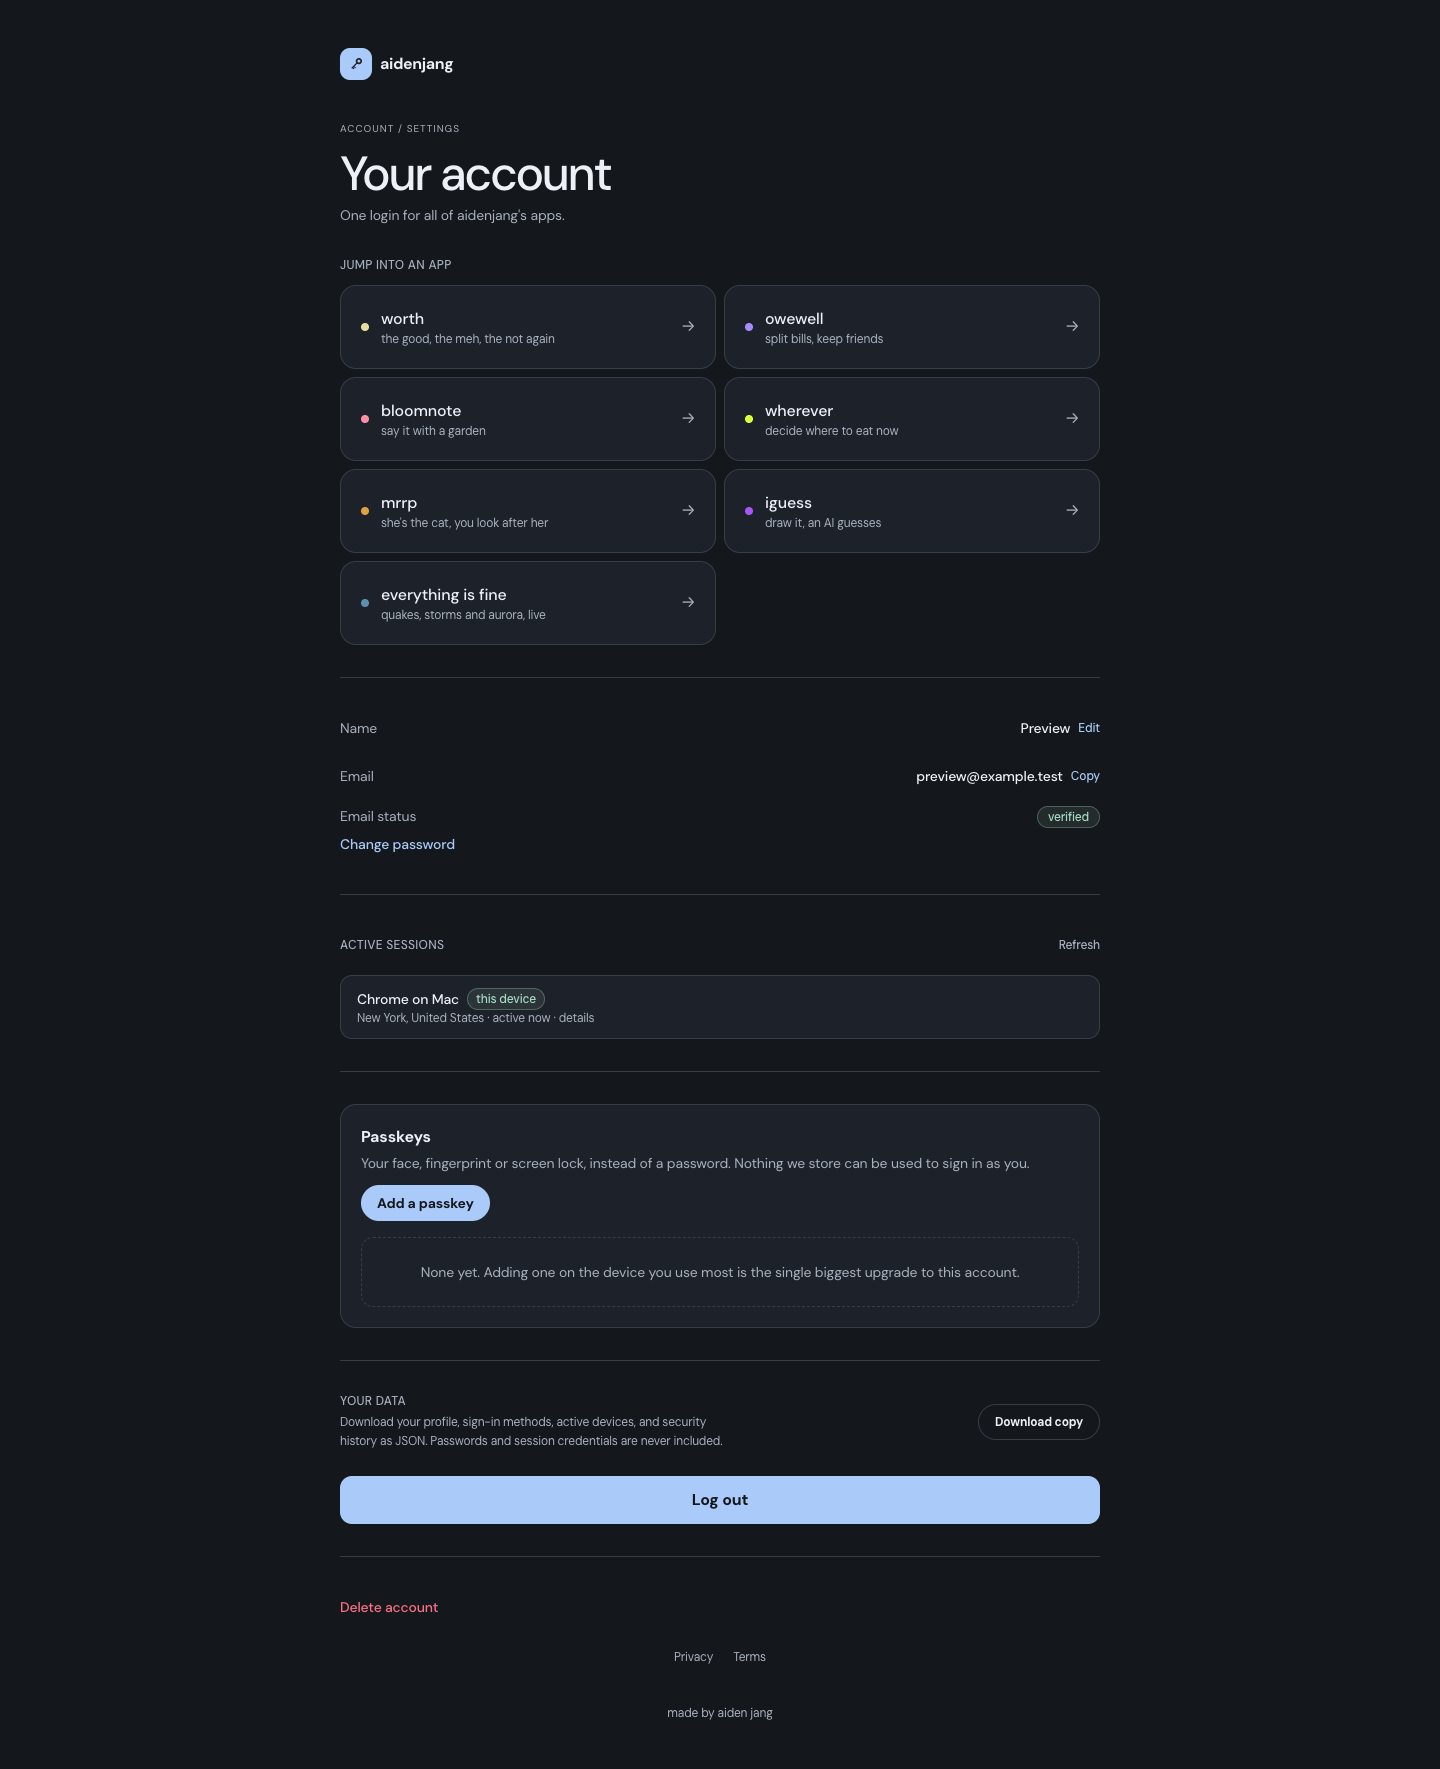
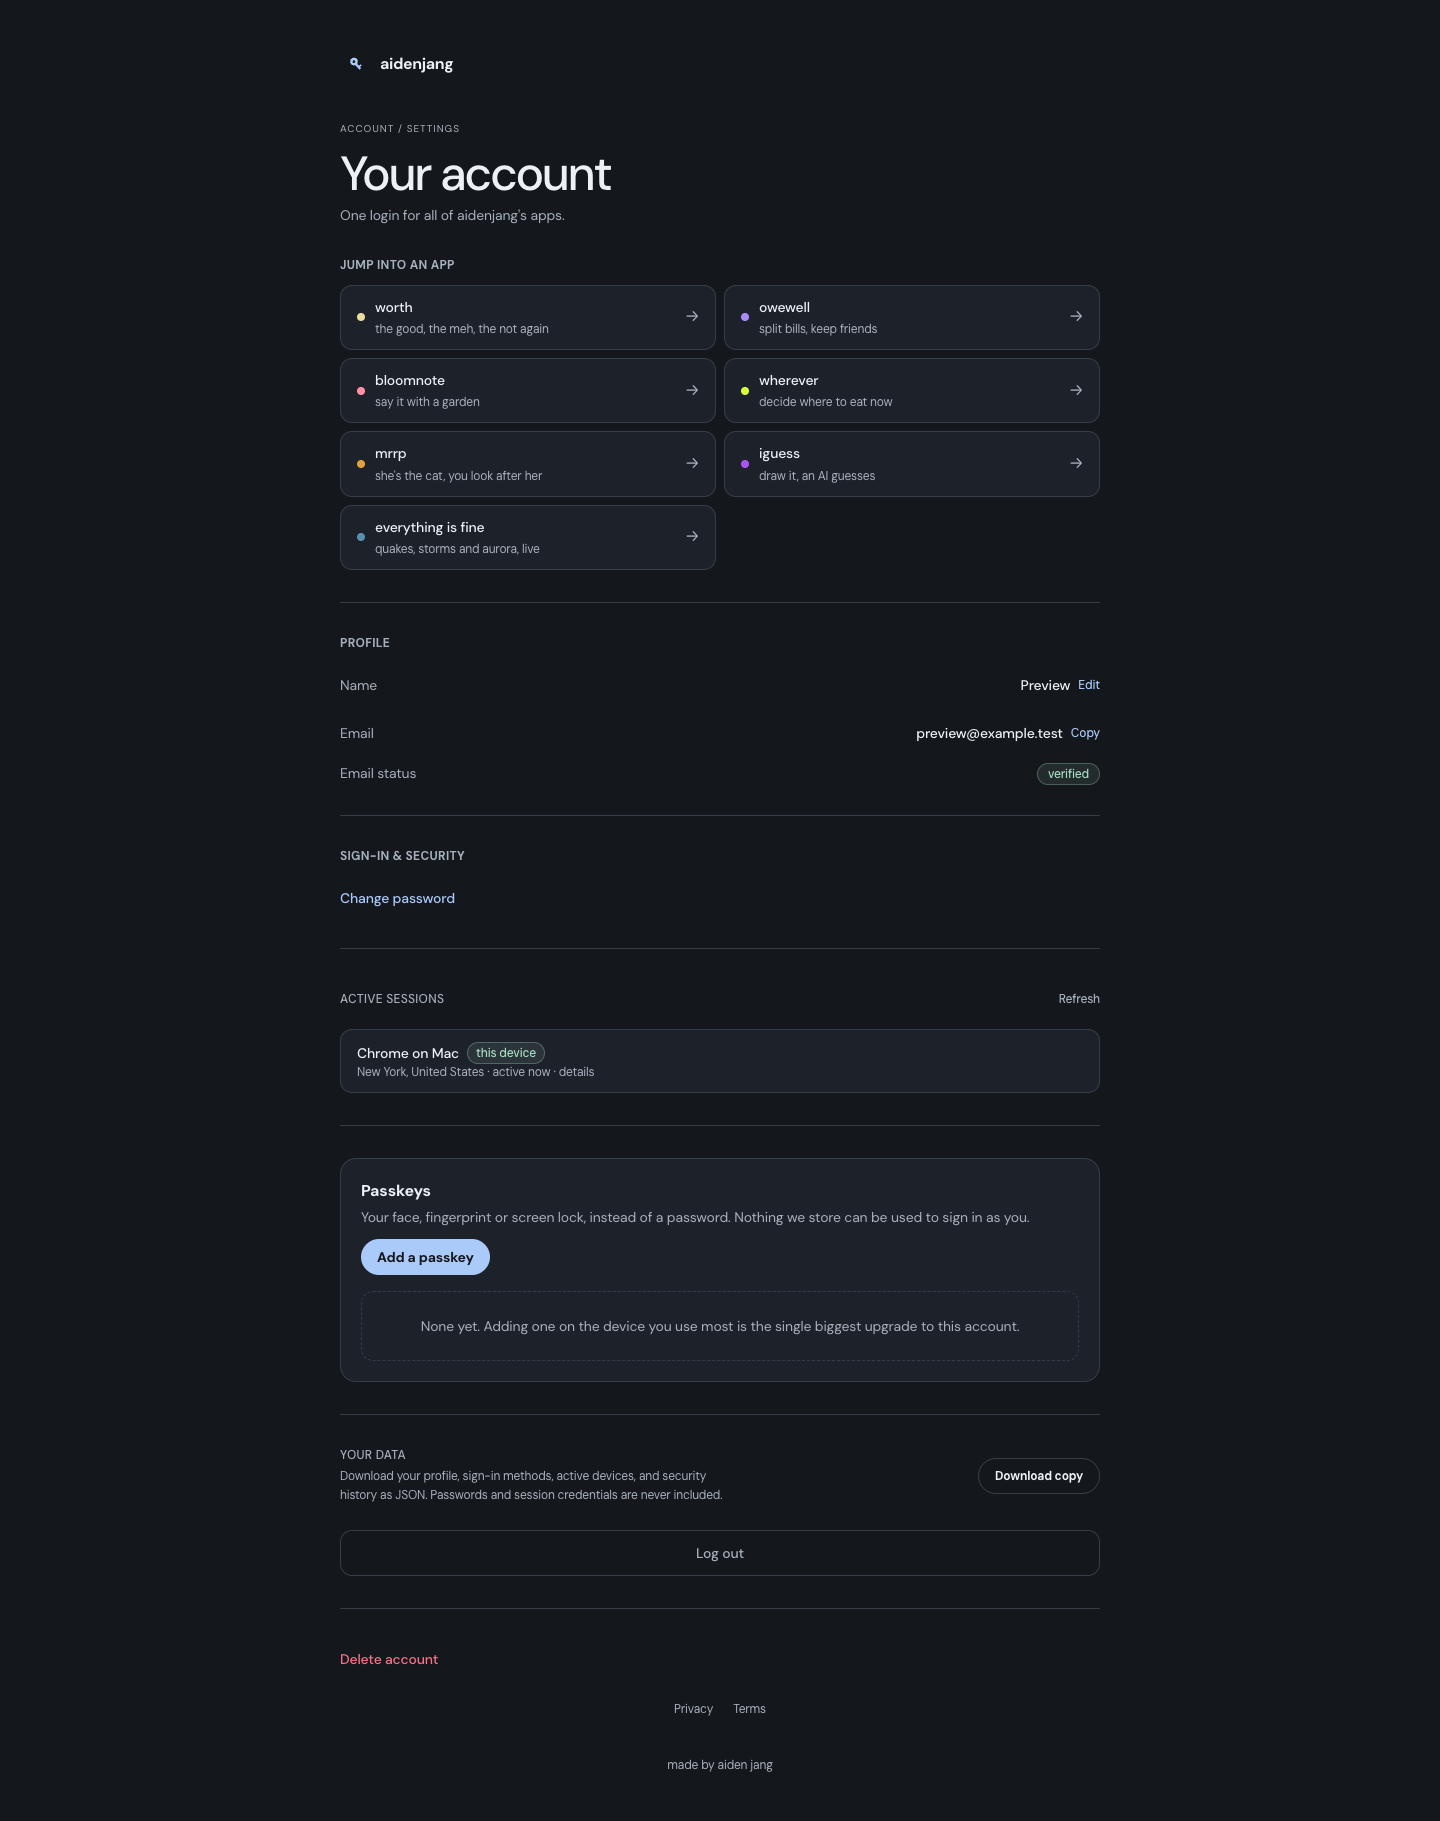
feat: compact Accounts launcher and clarify settings hierarchy

diff --git a/packages/web/src/pages/AccountPage.tsx b/packages/web/src/pages/AccountPage.tsx
@@ -1,8 +1,8 @@
 import { useEffect, useState, type FormEvent, type ReactNode } from 'react';
 import { authApi, googleEnabled, type AuthUser } from '../lib/api';
-import { AccountShell, buttonClass, inputClass } from '../components/AuthCard';
+import { AccountShell, inputClass } from '../components/AuthCard';
 import { Skeleton } from '../components/Skeleton';
-import { APPS, appHref } from '../lib/apps';
+import { AppLauncher } from '../components/AppLauncher';
 import { DeleteAccount } from '../components/DeleteAccount';
 import { useSessions } from '../lib/useSessions';
 import { ConnectedAccounts } from '../components/ConnectedAccounts';
@@ -282,48 +282,11 @@ export function AccountPage(): ReactNode {
         </section>
       )}
 
-      {/* App launcher — this is the landing when a visitor signs in at
-          aidenjang.com without being sent back to a specific app, so lead
-          with somewhere to go. Hidden while changing password so that flow
-          stays focused. Sourced from lib/apps.ts. */}
-      {!changingPw && (
-        <section aria-label="Apps">
-          <h2 className="text-xs font-medium uppercase tracking-wide text-muted">
-            Jump into an app
-          </h2>
-          <ul className="mt-3 grid gap-2 sm:grid-cols-2">
-            {APPS.map((app) => (
-              <li key={app.name}>
-                <a
-                  href={appHref(app)}
-                  className="group flex items-center justify-between rounded-xl border border-line bg-field px-4 py-3 transition hover:border-accent"
-                >
-                  <span className="flex items-center gap-3">
-                    <span
-                      aria-hidden
-                      className="h-2 w-2 shrink-0 rounded-full"
-                      style={{ background: app.accent }}
-                    />
-                    <span>
-                      <span className="font-medium text-ink">{app.name}</span>
-                      <span className="block text-xs text-muted">{app.tagline}</span>
-                    </span>
-                  </span>
-                  <span
-                    aria-hidden
-                    className="text-muted transition group-hover:translate-x-0.5 group-hover:text-accent"
-                  >
-                    &rarr;
-                  </span>
-                </a>
-              </li>
-            ))}
-          </ul>
-        </section>
-      )}
+      {!changingPw && <AppLauncher />}
 
       {!changingPw && <hr className="my-6 border-line" />}
 
+      <h2 className="mb-4 text-xs font-semibold uppercase tracking-wide text-muted">Profile</h2>
       <dl className="space-y-3 text-sm">
         {editingName ? (
           <div>
@@ -423,6 +386,10 @@ export function AccountPage(): ReactNode {
         </div>
       )}
 
+      <hr className="my-6 border-line" />
+      <h2 className="mb-4 text-xs font-semibold uppercase tracking-wide text-muted">
+        Sign-in & security
+      </h2>
       <PasswordSection
         user={user}
         changingPw={changingPw}
@@ -463,7 +430,11 @@ export function AccountPage(): ReactNode {
         </>
       )}
 
-      <button type="button" onClick={() => void logout()} className={`${buttonClass} mt-6`}>
+      <button
+        type="button"
+        onClick={() => void logout()}
+        className="mt-6 min-h-11 w-full rounded-xl border border-line px-4 py-3 text-sm font-medium text-muted transition hover:border-accent hover:text-ink"
+      >
         Log out
       </button>
 

diff --git a/packages/web/src/components/AppLauncher.tsx b/packages/web/src/components/AppLauncher.tsx
@@ -1,0 +1,45 @@
+import type { ReactNode } from 'react';
+import { APPS, appHref } from '../lib/apps';
+
+export function AppLauncher(): ReactNode {
+  return (
+    <section aria-labelledby="app-launcher-heading">
+      <h2
+        id="app-launcher-heading"
+        className="text-xs font-semibold uppercase tracking-wide text-muted"
+      >
+        Jump into an app
+      </h2>
+      <ul className="mt-3 grid grid-cols-2 gap-2">
+        {APPS.map((app) => (
+          <li key={app.name}>
+            <a
+              href={appHref(app)}
+              className="group flex min-h-12 items-center justify-between gap-2 rounded-xl border border-line bg-field px-3 py-3 transition hover:border-accent sm:px-4"
+            >
+              <span className="flex min-w-0 items-center gap-2.5">
+                <span
+                  aria-hidden
+                  className="h-2 w-2 shrink-0 rounded-full"
+                  style={{ background: app.accent }}
+                />
+                <span className="min-w-0">
+                  <span className="block text-sm font-medium leading-snug text-ink">
+                    {app.name}
+                  </span>
+                  <span className="mt-1 hidden text-xs text-muted sm:block">{app.tagline}</span>
+                </span>
+              </span>
+              <span
+                aria-hidden
+                className="text-muted transition group-hover:translate-x-0.5 group-hover:text-accent"
+              >
+                &rarr;
+              </span>
+            </a>
+          </li>
+        ))}
+      </ul>
+    </section>
+  );
+}

diff --git a/packages/web/src/index.css b/packages/web/src/index.css
@@ -308,17 +308,6 @@ button:not(:disabled) {
   line-height: 1.1;
   letter-spacing: -0.05em;
 }
-.account-content > section[aria-label='Apps'] {
-  margin-bottom: 32px;
-}
-.account-content > section[aria-label='Apps'] a {
-  min-height: 84px;
-  padding: 20px;
-  border-radius: 16px;
-}
-.account-content > section[aria-label='Apps'] a:hover {
-  background: #252d38;
-}
 .account-content hr {
   margin-top: 32px;
   margin-bottom: 32px;

diff --git a/docs/ui-qa/README.md b/docs/ui-qa/README.md
@@ -32,3 +32,5 @@ The contrast suite checks all registered app accents against the new palette. Th
 reported 688/699 source comment lines; no duplicated or stranded comments were found.
 Screens were inspected after the independent Accounts palette and compact form headings. Worth’s local fake-auth service was
 restored after the browser suite released its port.
+
+The October 10 account pass keeps all apps in a compact two-column phone launcher, names the Profile and Sign-in & security sections, and gives Log out an outlined treatment. Account captures were inspected at desktop and phone sizes; 320, 430 and 768px also passed overflow checks. The capture waits for app content and fonts rather than unrelated background loads.

diff --git a/docs/DESIGN.md b/docs/DESIGN.md
@@ -22,3 +22,5 @@ Worth is now present in the app registry, which also makes its verified return d
 recognizable on sign-in. No auth API, cookie, password or session contract changes are needed.
 
 Desktop and phone evidence is in [UI captures](ui-qa/README.md).
+
+The account launcher keeps every app visible in two columns on phones, with taglines reserved for wider screens. Profile and sign-in security have explicit headings. Log out uses a quiet outlined control so passkey setup retains visual priority.
